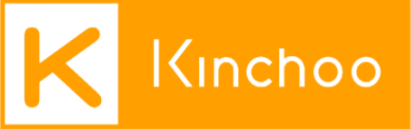
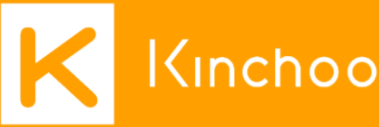
Navbar arreglado el color y tambien bug de upvotes

diff --git a/src/components/navbar.js b/src/components/navbar.js
@@ -26,11 +26,160 @@
 // 	);
 // }
 //
+import * as React from 'react';
+import { styled, useTheme } from '@mui/material/styles';
+import Box from '@mui/material/Box';
+import Drawer from '@mui/material/Drawer';
+import CssBaseline from '@mui/material/CssBaseline';
+import MuiAppBar from '@mui/material/AppBar';
+import Toolbar from '@mui/material/Toolbar';
+import List from '@mui/material/List';
+import Divider from '@mui/material/Divider';
+import IconButton from '@mui/material/IconButton';
+import MenuIcon from '@mui/icons-material/Menu';
+import ChevronLeftIcon from '@mui/icons-material/ChevronLeft';
+import ChevronRightIcon from '@mui/icons-material/ChevronRight';
+import ListItem from '@mui/material/ListItem';
+import ListItemIcon from '@mui/material/ListItemIcon';
+import ListItemText from '@mui/material/ListItemText';
+import InboxIcon from '@mui/icons-material/MoveToInbox';
+import MailIcon from '@mui/icons-material/Mail';
+import theme from "./theme";
+
+const drawerWidth = 240;
+
+const AppBar = styled(MuiAppBar, {
+	shouldForwardProp: (prop) => prop !== 'open',
+})(({ theme, open }) => ({
+	transition: theme.transitions.create(['margin', 'width'], {
+		easing: theme.transitions.easing.sharp,
+		duration: theme.transitions.duration.leavingScreen,
+	}),
+	...(open && {
+		width: `calc(100% - ${drawerWidth}px)`,
+		marginLeft: `${drawerWidth}px`,
+		transition: theme.transitions.create(['margin', 'width'], {
+			easing: theme.transitions.easing.easeOut,
+			duration: theme.transitions.duration.enteringScreen,
+		}),
+	}),
+}));
+
+const DrawerHeader = styled('div')(({ theme }) => ({
+	display: 'flex',
+	alignItems: 'center',
+	padding: theme.spacing(0, 1),
+	// necessary for content to be below app bar
+	...theme.mixins.toolbar,
+	justifyContent: 'flex-end',
+}));
+
 export default function Navbar() {
+	const [open, setOpen] = React.useState(false);
+
+	const handleDrawerOpen = () => {
+		setOpen(true);
+	};
+
+	const handleDrawerClose = () => {
+		setOpen(false);
+	};
+
 	return (
-		<p>navbar</p>
-	)
+		<Box height={80} sx={{ display: 'flex' }}>
+			<CssBaseline />
+			<AppBar enableColorOnDark color="orangebg" sx={{ backgroundImage: 'linear-gradient(rgba(255, 255, 255, 0), rgba(255, 255, 255, 0))'}} position="fixed" open={open}>
+				<Toolbar>
+					<IconButton
+						color="white"
+						aria-label="open drawer"
+						onClick={handleDrawerOpen}
+						edge="start"
+						sx={{ mr: 2, ...(open && { display: 'none' }) }}
+					>
+						<MenuIcon />
+					</IconButton>
+					<img src="kinchoo.png"  style={{margin:10}} height={60} alt="Kinchoo"/>
+				</Toolbar>
+			</AppBar>
+			<Drawer
+				sx={{
+					width: drawerWidth,
+					flexShrink: 0,
+					'& .MuiDrawer-paper': {
+						width: drawerWidth,
+						boxSizing: 'border-box',
+					},
+				}}
+				variant="persistent"
+				anchor="left"
+				open={open}
+			>
+				<DrawerHeader>
+					<IconButton onClick={handleDrawerClose}>
+						{theme.direction === 'ltr' ? <ChevronLeftIcon /> : <ChevronRightIcon />}
+					</IconButton>
+				</DrawerHeader>
+				<Divider />
+				<List>
+					{['Inbox', 'Starred', 'Send email', 'Drafts'].map((text, index) => (
+						<ListItem button key={text}>
+							<ListItemIcon>
+								{index % 2 === 0 ? <InboxIcon /> : <MailIcon />}
+							</ListItemIcon>
+							<ListItemText primary={text} />
+						</ListItem>
+					))}
+				</List>
+				<Divider />
+				<List>
+					{['All mail', 'Trash', 'Spam'].map((text, index) => (
+						<ListItem button key={text}>
+							<ListItemIcon>
+								{index % 2 === 0 ? <InboxIcon /> : <MailIcon />}
+							</ListItemIcon>
+							<ListItemText primary={text} />
+						</ListItem>
+					))}
+				</List>
+			</Drawer>
+		</Box>
+	);
 }
+// import * as React from 'react';
+// import AppBar from '@mui/material/AppBar';
+// import Box from '@mui/material/Box';
+// import Toolbar from '@mui/material/Toolbar';
+// import Typography from '@mui/material/Typography';
+// import Button from '@mui/material/Button';
+// import IconButton from '@mui/material/IconButton';
+// import MenuIcon from '@mui/icons-material/Menu';
+//
+// export default function Navbar() {
+// 	return (
+// 		// <Box sx={{ flexGrow: 1, margin: 0 }}>
+// 			<AppBar  position="static">
+// 				<Toolbar>
+// 					<IconButton
+// 						size="large"
+// 						edge="start"
+// 						color="inherit"
+// 						aria-label="menu"
+// 						sx={{ mr: 2 }}
+// 					>
+// 						<MenuIcon />
+// 					</IconButton>
+// 					<Typography variant="h6" component="div" sx={{ flexGrow: 1 }}>
+// 						News
+// 					</Typography>
+// 					<Button color="inherit">Login</Button>
+// 				</Toolbar>
+// 			</AppBar>
+// 		// </Box>
+// 	);
+// }
+
+// export default Navbar;
 // export default function Navbar() {
 // 	return (
 // 		<nav className="navbar">

diff --git a/src/components/post.js b/src/components/post.js
@@ -4,12 +4,11 @@ import VoteButtons from "./vote-buttons";
 
 const Post = ({post}) => {
     let img;
-    if (post.imageURL) {
+    if (post.imgURL) {
         img = <CardMedia
             component="img"
-            height="194"
             alt="Image not fetched"
-            image={post.imageURL}
+            image={post.imgURL}
         />
     }
    return (
@@ -17,7 +16,7 @@ const Post = ({post}) => {
 
            <CardHeader title={post.title}/>
            <CardContent>
-               <Typography>
+               <Typography align={"justify"} >
                    {post.content}
                </Typography>
                {img}

diff --git a/src/components/theme.js b/src/components/theme.js
@@ -1,8 +1,26 @@
+// import { extendTheme } from "@chakra-ui/react"
+//
+// const config = {
+// 	initialColorMode: "dark",
+// 	useSystemColorMode: false,
+// }
+//
+// const theme = extendTheme({ config })
+//
+// export default theme
 
 const {createTheme} = require("@mui/material");
-const theme = createTheme({
+let theme = createTheme({
     palette: {
         mode: 'dark',
+        orangebg: {
+            main: '#ff9f00',
+        },
+        white: {
+            main: '#ffffff'
+        },
+        tonalOffset: 0,
     }
+
 });
 export default theme

diff --git a/src/components/vote-buttons.js b/src/components/vote-buttons.js
@@ -25,8 +25,10 @@ const VoteButtons = ({ post }) => {
 
         await setDoc(doc(db,"posts", post.id), {
             title: post.title,
-            upVotesCount,
-            downVotesCount,
+            upVotesCount: upVotesCount,
+            downVotesCount: downVotesCount,
+            imgURL: post.imgURL,
+            content: post.content,
             createdAt: post.createdAt,
             updatedAt: Timestamp.fromDate(date)
         })
